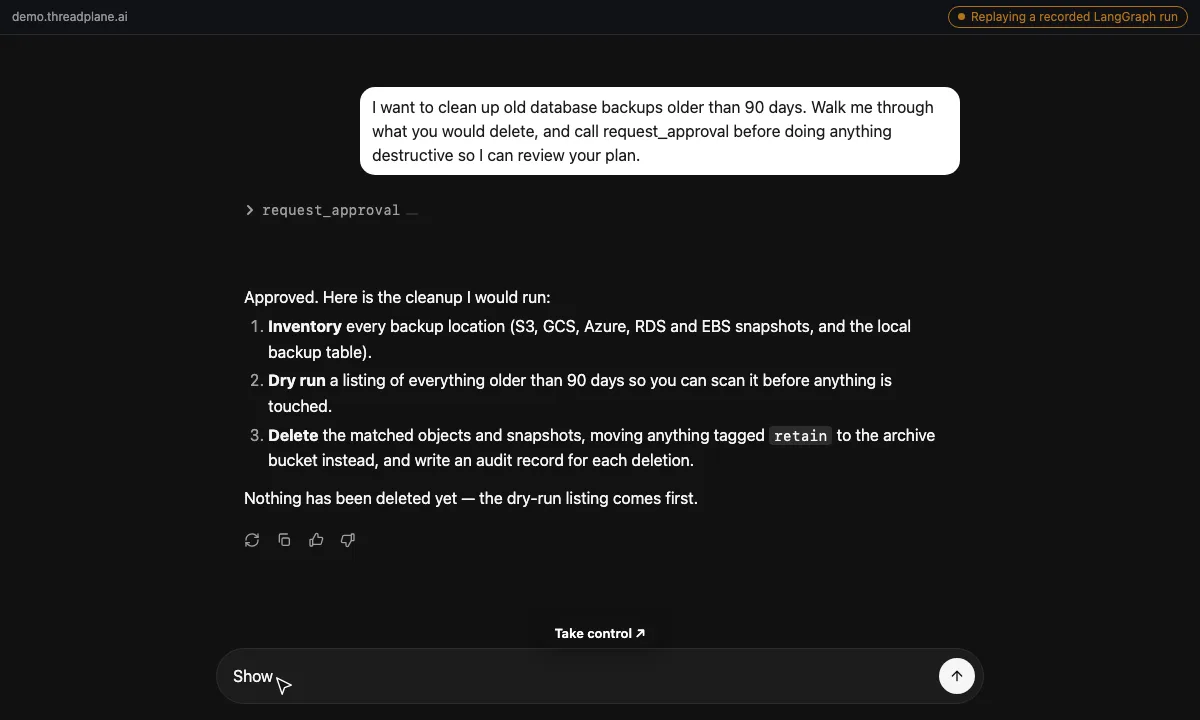
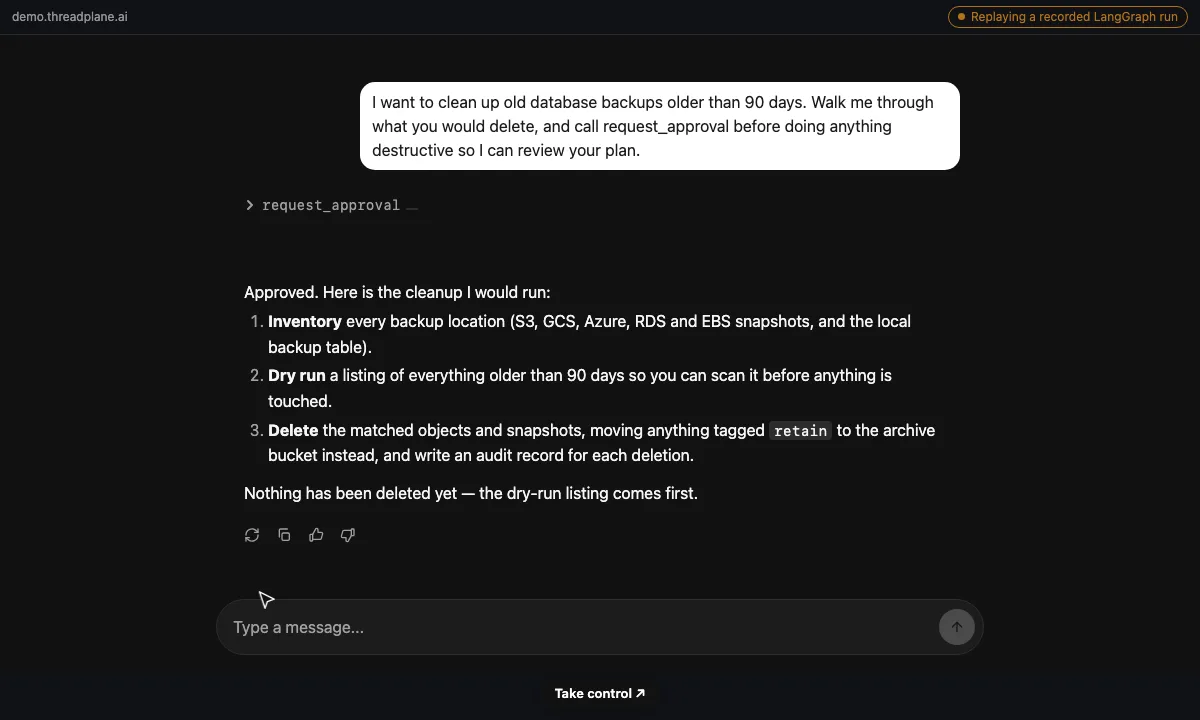
fix(website): re-record both hero posters on the shipping layout
The desktop poster was stale. It showed "Take control" floating over the
composer — the absolutely-positioned layout replaced in #998 — and a beat
where the walkthrough's second prompt was already typed into the composer.
It is the LCP element for every desktop visitor, so the largest image on the
homepage was showing a UI that no longer exists.

Both recorders now hold 2500ms after the interrupt detaches instead of 1500ms.
That is about the scripted cursor, not the text: HOLD_AFTER_ANSWER_MS (2000)
plus CURSOR_MOVE_MS (650) means at 1500ms the arrow is still parked where it
pressed Accept, which at phone width dropped it onto the word `retain` in step
3 — an artifact rather than a hint that the demo is live. At 2500ms it has
reached the composer, which is the beat the desktop script's docstring has
always claimed. The beat intent is otherwise unchanged: the first streamed
reply, with the user turn, the tool call and the whole answer on screen.

Both scripts now assert what they captured — `.hero__take` visible in normal
flow, composer empty — so a drifted wait or another layout change fails the
recording instead of silently shipping a poster of a UI we no longer have.

Desktop 37,718 -> 38,114 bytes; phone 33,576 -> 33,624.

diff --git a/examples/chat/angular/e2e/record-hero-poster.record.ts b/examples/chat/angular/e2e/record-hero-poster.record.ts
@@ -8,8 +8,18 @@
  * "typing the first prompt" frame is mostly empty canvas; this one shows the
  * user turn, the tool call, the rendered answer and the cursor heading back to
  * the composer — it reads as a product, not as a blank chat box.
+ *
+ * The wait is 2500ms rather than the 1500ms this script used to hold, because
+ * the two land the scripted cursor in different places. At 1500ms it is still
+ * parked where it pressed Accept, which on the phone capture put the arrowhead
+ * on top of the word `retain` in step 3 — an artifact, not a hint that the demo
+ * is live. HOLD_AFTER_ANSWER_MS (2000) plus CURSOR_MOVE_MS (650) puts it at the
+ * composer at ~2650ms and typing starts immediately after, so 2500ms catches it
+ * arriving with the composer still empty. The empty-composer assertion below is
+ * what keeps a mistimed capture from shipping silently: the poster this
+ * replaced had the second prompt already typed into it.
  */
-import { test } from '@playwright/test';
+import { expect, test } from '@playwright/test';
 import { resolve } from 'node:path';
 import sharp from 'sharp';
 
@@ -22,7 +32,12 @@ test('capture hero poster', async ({ page }) => {
   const interruptPanel = page.locator('chat-interrupt-panel');
   await interruptPanel.waitFor({ timeout: 60_000 });
   await interruptPanel.waitFor({ state: 'detached', timeout: 60_000 });
-  await page.waitForTimeout(1500);
+  await page.waitForTimeout(2500);
+  // The frame has to show what ships today, not a layout we have replaced.
+  // `.hero__take` was moved out of absolute positioning and into normal flow;
+  // the poster this replaced still had it floating over the composer.
+  await expect(page.locator('.hero__take')).toBeVisible();
+  await expect(page.locator('[data-hero-surface] textarea')).toHaveValue('');
   const png = await page.screenshot({ type: 'png', fullPage: false });
   await sharp(png).webp({ quality: 82 }).toFile(OUT);
   console.log(`wrote ${OUT}`);

diff --git a/examples/chat/angular/e2e/record-hero-poster-mobile.record.ts b/examples/chat/angular/e2e/record-hero-poster-mobile.record.ts
@@ -13,6 +13,12 @@
  * bubble behind it, and a still of a live Accept / Edit / Respond dialog
  * invites taps that do nothing.
  *
+ * The 2500ms wait is shared with the desktop recorder and is about the scripted
+ * cursor, not the text: at 1500ms it is still parked where it pressed Accept,
+ * which at phone width drops the arrowhead onto the word `retain` in step 3.
+ * By 2500ms it has reached the composer, which reads as the walkthrough about
+ * to type again rather than as a smudge on the prose.
+ *
  * Geometry: 390x650 is the phone design width the reviews already use, and it
  * is exactly 3:5 — the ratio `.hero-demo-stage` holds below 768px — so
  * `object-fit: cover` crops nothing. The frame is captured at
@@ -22,7 +28,7 @@
  *
  *   npx playwright test --config examples/chat/angular/e2e/record-hero.config.ts record-hero-poster-mobile
  */
-import { test } from '@playwright/test';
+import { expect, test } from '@playwright/test';
 import { resolve } from 'node:path';
 import sharp from 'sharp';
 
@@ -41,7 +47,11 @@ test('capture mobile hero poster', async ({ page }) => {
   const interruptPanel = page.locator('chat-interrupt-panel');
   await interruptPanel.waitFor({ timeout: 60_000 });
   await interruptPanel.waitFor({ state: 'detached', timeout: 60_000 });
-  await page.waitForTimeout(1500);
+  await page.waitForTimeout(2500);
+  // Guards the beat: `.hero__take` ships in normal flow, and a composer with
+  // the next prompt already typed into it means the wait has drifted late.
+  await expect(page.locator('.hero__take')).toBeVisible();
+  await expect(page.locator('[data-hero-surface] textarea')).toHaveValue('');
   const png = await page.screenshot({ type: 'png', fullPage: false });
   await sharp(png).resize({ width: SHIP_WIDTH }).webp({ quality: 55, effort: 6 }).toFile(OUT);
   console.log(`wrote ${OUT}`);

diff --git a/apps/website/src/styles/landing.css b/apps/website/src/styles/landing.css
@@ -1540,7 +1540,7 @@
     aspect-ratio: 3 / 5;
   }
   /* The phone poster shows the demo's whole frame, right down to its own
-     "Take control ↗" button — which lands 18-29px above the stage floor and
+     "Take control ↗" button — which lands 20-29px above the stage floor and
      is a still, so tapping it does nothing. Dropping the live control from
      20px to 12px parks it squarely on top of that dead one instead of
      half-covering it, so a phone sees one button, not two. */
